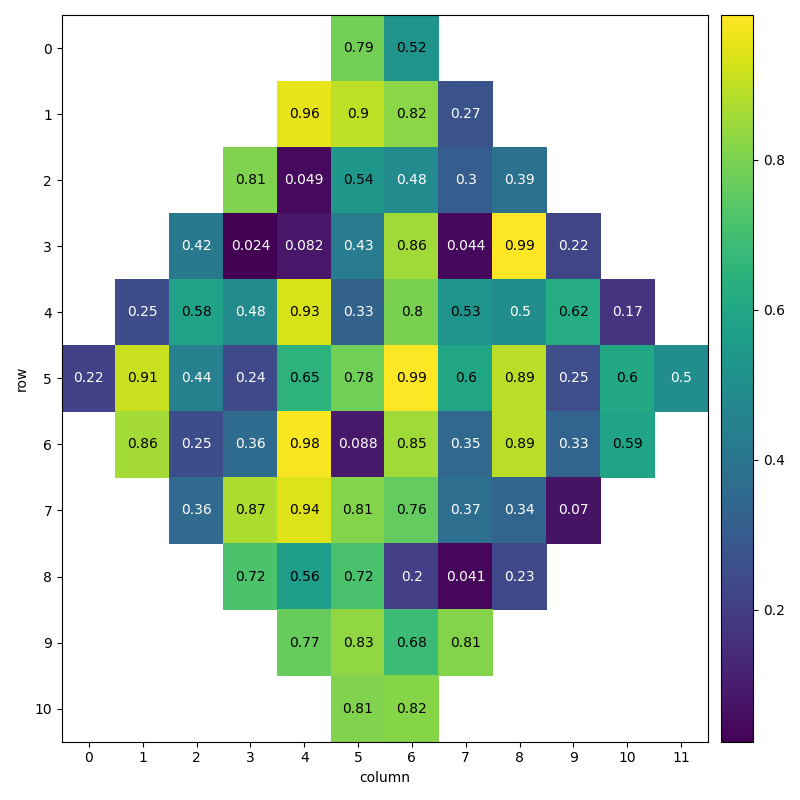
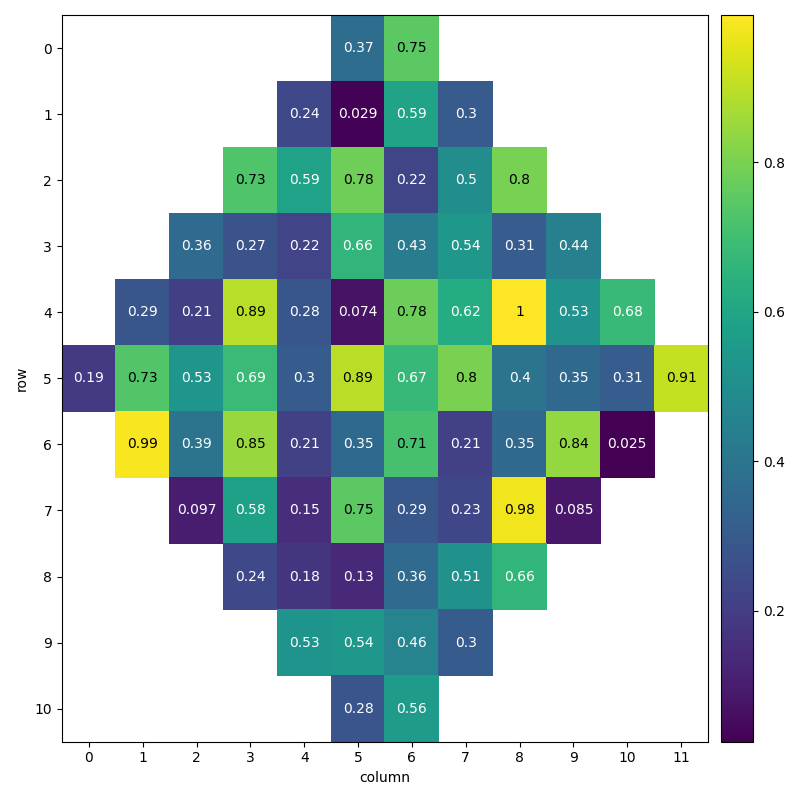
fixed somewhat the axes (still not perfect) and the facecolor mapping

diff --git a/cirq/vis/heatmap.py b/cirq/vis/heatmap.py
@@ -58,7 +58,7 @@ QubitPair = Union[
 ValueMap = Union[Dict[grid_qubit.GridQubit, SupportsFloat], Dict[TupleQubitCoord, SupportsFloat]]
 
 # The value map that maps a qubit pair to a type that supports float conversion.
-InterValueMap = Union[
+InteractionValueMap = Union[
     Dict[GridQubitPair, SupportsFloat],
     Dict[TupleQubitPair, SupportsFloat],
 ]
@@ -74,6 +74,7 @@ QubitCoordAnnotation = Mapping[QubitCoordinate, str]
 
 def relative_luminance(color: np.ndarray) -> float:
     """Returns the relative luminance according to W3C specification.
+
     Spec: https://www.w3.org/TR/WCAG21/#dfn-relative-luminance.
     Args:
         color: a numpy array with the first 3 elements red, green, and blue
@@ -250,22 +251,41 @@ class HeatmapBase(Generic[T, K, M], abc.ABC):
         colorbar_ax.tick_params(axis='y', direction='out')
         return colorbar
 
-    def _write_annotations(self, ax: plt.Axes) -> None:
+    def _write_annotations(
+        self, centers: List[Point], mesh: mpl_collections.Collection, ax: plt.Axes
+    ) -> None:
         """Writes annotations to the center of cells. Internal."""
-        for target in self.value_map.keys():
-            row, col = self._target_to_coordinate(target)
-            annotation = self.annot_map.get((row, col), '')
+        print(centers, len(mesh.get_paths()), len(mesh.get_facecolors()))
+        for center, path, facecolor in zip(centers, mesh.get_paths(), mesh.get_facecolors()):
+            # Calculate the center of the cell, assuming that it is a square
+            # centered at (x=col, y=row).
+            col, row = center
+            annotation = self.annot_map.get((row, col), 'none')
+            print(annotation, center, path, facecolor)
             if not annotation:
                 continue
-            medium_brightness = (
-                (self.vmax + self.vmin) / 2
-                if (self.vmax is not None and self.vmin is not None)
-                else 0.5
-            )
-            text_color = 'black' if self.value_map[target][0] > medium_brightness else 'white'
+            face_luminance = relative_luminance(facecolor)
+            text_color = 'black' if face_luminance > 0.4 else 'white'
             text_kwargs = dict(color=text_color, ha="center", va="center")
             text_kwargs.update(self.annot_kwargs)
             ax.text(col, row, annotation, **text_kwargs)
+        #
+        # vmax = max(self.value_map.values())
+        # vmin = min(self.value_map.values())
+        # medium_brightness = ((vmax[0] + vmin[0]) / 2)
+        #
+        # for target in self.value_map.keys():
+        #     row, col = self._target_to_coordinate(target)
+        #     annotation = self.annot_map.get((row, col), '')
+        #     if not annotation:
+        #         continue
+        #
+        #
+        #     text_color = 'black' if self.value_map[target][0] > medium_brightness else 'white'
+        #     print(target, self.value_map[target][0], text_color, annotation)
+        #     text_kwargs = dict(color=text_color, ha="center", va="center")
+        #     text_kwargs.update(self.annot_kwargs)
+        #     ax.text(col, row, annotation, **text_kwargs)
 
 
 class Heatmap(HeatmapBase['Heatmap', QubitCoordinate, ValueMap]):
@@ -340,7 +360,11 @@ class Heatmap(HeatmapBase['Heatmap', QubitCoordinate, ValueMap]):
             self._plot_colorbar(mesh, ax)
 
         if self.annot_map:
-            self._write_annotations(ax)
+            self._write_annotations(
+                [np.mean([np.array(v) for v in p.vertices[:4]], axis=0) for p in mesh.get_paths()],
+                mesh,
+                ax,
+            )
 
         if show_plot:
             fig.show()
@@ -349,11 +373,11 @@ class Heatmap(HeatmapBase['Heatmap', QubitCoordinate, ValueMap]):
 
 
 class TwoQubitInteractionHeatmap(
-    HeatmapBase['TwoQubitInteractionHeatmap', QubitPair, InterValueMap]
+    HeatmapBase['TwoQubitInteractionHeatmap', QubitPair, InteractionValueMap]
 ):
     """Visualizing interactions between neighboring qubits on a 2D grid."""
 
-    def __init__(self, value_map: InterValueMap, title: Optional[str] = None) -> None:
+    def __init__(self, value_map: InteractionValueMap, title: Optional[str] = None) -> None:
         super().__init__(value_map, title)
 
     def _target_to_coordinate(self, target: QubitPair) -> Tuple[float, float]:
@@ -402,39 +426,23 @@ class TwoQubitInteractionHeatmap(
             row, col = self._target_to_coordinate(qubit)
             value_table[col][row] = float_value
         # Construct the (height + 1) x (width + 1) cell boundary tables.
-        x_table = np.arange(min_col - 0.25, max_col + 0.75, 0.5)
-        y_table = np.arange(min_row - 0.25, max_row + 0.75, 0.5).transpose()
+        # x_table = np.arange(min_col - 0.25, max_col + 0.75, 0.5)
+        # y_table = np.arange(min_row - 0.25, max_row + 0.75, 0.5).transpose()
 
         # Construct the URL array as an ordered list of URLs for non-nan cells.
         url_array: List[str] = []
         if self.url_map:
             url_array = [self.url_map.get((row, col), '') for row, col in value_table.stack().index]
 
-        def get_qubit_map(vm):
-            # TODO: clean this up later
-            return {q: 0.0 for qubits in self.value_map.keys() for q in qubits}
-
-        hm = Heatmap(get_qubit_map(self.value_map))
+        hm = Heatmap({q: 0.0 for qubits in self.value_map.keys() for q in qubits})
         hm.set_colormap('binary')
         hm.unset_colorbar()
         hm.unset_annotation()
         hm.plot(
             ax=ax,
             linewidths=2,
-            edgecolor='darkgrey',
+            edgecolor='lightgrey',
             linestyle='dashed',
-        )
-
-        # Plot the heatmap.
-        mesh = ax.pcolor(
-            x_table,
-            y_table,
-            value_table,
-            vmin=self.vmin,
-            vmax=self.vmax,
-            cmap=self.colormap,
-            urls=url_array,
-            **pcolor_options,
         )
 
         coupler_list = _extract_pair_data(self.value_map, coupler_margin, coupler_width)
@@ -446,28 +454,30 @@ class TwoQubitInteractionHeatmap(
         # Make the heatmap for two-qubit metrics.
         collection = mcoll.PolyCollection([c.polygon for c in coupler_list], cmap=self.colormap)
         collection.set_clim(vmin, vmax)
-        collection.set_array(np.array([c.value[0] for c in coupler_list]))
+        collection.set_array(np.array([c.value for c in coupler_list]))
         ax.add_collection(collection)
+        collection.update_scalarmappable()  # Populate facecolors.
+        if self.annot_map:
+            self._write_annotations([c.center for c in coupler_list], collection, ax)
 
-        mesh.update_scalarmappable()
         ax.set(xlabel='column', ylabel='row')
-        ax.set_xticks(np.arange(min_col - 0.5, max_col + 1.5))
-        ax.set_yticks(np.arange(min_row - 0.5, max_row + 1.5))
-        ax.grid(b=True, which='minor', linestyle='--')
-        ax.set_xlim((min_col - 1, max_col + 0.5))
-        ax.set_ylim((max_row + 0.5, min_row - 0.5))
+        min_xtick = np.floor(min_col)
+        max_xtick = np.floor(max_col)
+        ax.set_xticks(np.arange(min_xtick, max_xtick + 1))
+        min_ytick = np.floor(min_row)
+        max_ytick = np.floor(max_row)
+        ax.set_yticks(np.arange(min_ytick, max_ytick + 1))
+        ax.set_xlim((min_xtick - 0.6, max_xtick + 1.6))
+        ax.set_ylim((max_ytick + 1.6, min_ytick - 0.6))
         plt.title(self.title)
 
-        # if self.plot_colorbar:
-        #     self._plot_colorbar(mesh, ax)
-
-        if self.annot_map:
-            self._write_annotations(ax)
+        if self.plot_colorbar:
+            self._plot_colorbar(collection, ax)
 
         if show_plot:
             fig.show()
 
-        return ax, None, value_table
+        return ax, collection, value_table
 
 
 class Coupler(NamedTuple('Coupler', [('polygon', Polygon), ('center', Point), ('value', Any)])):
@@ -505,21 +515,6 @@ def _extract_pair_data(
         - A list of Coupler objects for plotting the qubit-pair couplers.
         - A tuple of (minimum column, minimum row, maximum column, maximum row).
     """
-    qubits = {q for qubits in pair_value_map.keys() for q in qubits}
-
-    # A hack to make the qubit-pair values align with qubits when qubits don't
-    # start from row 0 or column 0. It should be better to do this with
-    # matplotlib's transformations, but a hack will do for now.
-    indices = [_get_qubit_row_col(q) for q in qubits]
-    min_row = min(row for row, _ in indices)
-    min_col = min(col for _, col in indices)
-    max_row = max(row for row, _ in indices)
-    max_col = max(col for _, col in indices)
-    extremes = (min_col, min_row, max_col, max_row)
-
-    def _offset(x: float, y: float) -> Tuple[float, float]:
-        return x, y  # x + 0.5 - min_col, y + 0.5 - min_row
-
     coupler_list: List[Coupler] = []
     cwidth = coupler_width / 2.0
     setback = 0.5 - cwidth
@@ -557,9 +552,9 @@ def _extract_pair_data(
             ]
         coupler_list.append(
             Coupler(
-                polygon=[_offset(c, r) for c, r in polygon],
-                center=_offset((col1 + col2) / 2.0, (row1 + row2) / 2.0),
-                value=value,
+                polygon=[(c, r) for c, r in polygon],
+                center=((col1 + col2) / 2.0, (row1 + row2) / 2.0),
+                value=value[0],
             )
         )
 

diff --git a/examples/heatmap_example.py b/examples/heatmap_example.py
@@ -39,44 +39,46 @@ def two_qubit_interaction_heatmap():
 
     Demonstrates how cirq.Heatmap can be used to generate a heatmap of the qubit fidelities.
     """
+    predef = True
     # normally one would get these from cirq.google.engine
     s = np.random.RandomState(1234)
     random_characterization_data = {qubit_pair: s.random() for qubit_pair in _sycamore_edges()}
 
-    # random_characterization_data = {
-    #     (cirq.GridQubit(3, 2), cirq.GridQubit(4, 2)): 0.004619111460557768,
-    #     (cirq.GridQubit(4, 1), cirq.GridQubit(4, 2)): 0.0076079162393482835,
-    #     (cirq.GridQubit(4, 1), cirq.GridQubit(5, 1)): 0.010323903068646778,
-    #     (cirq.GridQubit(4, 2), cirq.GridQubit(4, 3)): 0.00729037246947839,
-    #     (cirq.GridQubit(4, 2), cirq.GridQubit(5, 2)): 0.008226663382640803,
-    #     (cirq.GridQubit(4, 3), cirq.GridQubit(5, 3)): 0.01504682356081491,
-    #     (cirq.GridQubit(5, 0), cirq.GridQubit(5, 1)): 0.00673880216745637,
-    #     (cirq.GridQubit(5, 1), cirq.GridQubit(5, 2)): 0.01020380985719993,
-    #     (cirq.GridQubit(5, 1), cirq.GridQubit(6, 1)): 0.005713058677283056,
-    #     (cirq.GridQubit(5, 2), cirq.GridQubit(5, 3)): 0.006431698844451689,
-    #     (cirq.GridQubit(5, 2), cirq.GridQubit(6, 2)): 0.004676551878404933,
-    #     (cirq.GridQubit(5, 3), cirq.GridQubit(5, 4)): 0.009471810549265769,
-    #     (cirq.GridQubit(5, 3), cirq.GridQubit(6, 3)): 0.003834724159559072,
-    #     (cirq.GridQubit(5, 4), cirq.GridQubit(6, 4)): 0.010423354216218345,
-    #     (cirq.GridQubit(6, 1), cirq.GridQubit(6, 2)): 0.0062515002303844824,
-    #     (cirq.GridQubit(6, 2), cirq.GridQubit(6, 3)): 0.005419247075412775,
-    #     (cirq.GridQubit(6, 2), cirq.GridQubit(7, 2)): 0.02236774155039517,
-    #     (cirq.GridQubit(6, 3), cirq.GridQubit(6, 4)): 0.006116965562115412,
-    #     (cirq.GridQubit(6, 3), cirq.GridQubit(7, 3)): 0.005300336755683754,
-    #     (cirq.GridQubit(6, 4), cirq.GridQubit(6, 5)): 0.012849356290539266,
-    #     (cirq.GridQubit(6, 4), cirq.GridQubit(7, 4)): 0.007785990142364307,
-    #     (cirq.GridQubit(6, 5), cirq.GridQubit(7, 5)): 0.008790971346696541,
-    #     (cirq.GridQubit(7, 2), cirq.GridQubit(7, 3)): 0.004104719338404117,
-    #     (cirq.GridQubit(7, 3), cirq.GridQubit(7, 4)): 0.009236765681133435,
-    #     (cirq.GridQubit(7, 3), cirq.GridQubit(8, 3)): 0.024921853294157192,
-    #     (cirq.GridQubit(7, 4), cirq.GridQubit(7, 5)): 0.0059072812181635015,
-    #     (cirq.GridQubit(7, 4), cirq.GridQubit(8, 4)): 0.004990546867455203,
-    #     (cirq.GridQubit(7, 5), cirq.GridQubit(7, 6)): 0.007852170748540305,
-    #     (cirq.GridQubit(7, 5), cirq.GridQubit(8, 5)): 0.006424831182351348,
-    #     (cirq.GridQubit(8, 3), cirq.GridQubit(8, 4)): 0.005248674988741292,
-    #     (cirq.GridQubit(8, 4), cirq.GridQubit(8, 5)): 0.014301577907262525,
-    #     (cirq.GridQubit(8, 4), cirq.GridQubit(9, 4)): 0.0038720100369923904,
-    # }
+    if predef:
+        random_characterization_data = {
+            (cirq.GridQubit(3, 2), cirq.GridQubit(4, 2)): 0.004619111460557768,
+            (cirq.GridQubit(4, 1), cirq.GridQubit(4, 2)): 0.0076079162393482835,
+            (cirq.GridQubit(4, 1), cirq.GridQubit(5, 1)): 0.010323903068646778,
+            (cirq.GridQubit(4, 2), cirq.GridQubit(4, 3)): 0.00729037246947839,
+            (cirq.GridQubit(4, 2), cirq.GridQubit(5, 2)): 0.008226663382640803,
+            (cirq.GridQubit(4, 3), cirq.GridQubit(5, 3)): 0.01504682356081491,
+            (cirq.GridQubit(5, 0), cirq.GridQubit(5, 1)): 0.00673880216745637,
+            (cirq.GridQubit(5, 1), cirq.GridQubit(5, 2)): 0.01020380985719993,
+            (cirq.GridQubit(5, 1), cirq.GridQubit(6, 1)): 0.005713058677283056,
+            (cirq.GridQubit(5, 2), cirq.GridQubit(5, 3)): 0.006431698844451689,
+            (cirq.GridQubit(5, 2), cirq.GridQubit(6, 2)): 0.004676551878404933,
+            (cirq.GridQubit(5, 3), cirq.GridQubit(5, 4)): 0.009471810549265769,
+            (cirq.GridQubit(5, 3), cirq.GridQubit(6, 3)): 0.003834724159559072,
+            (cirq.GridQubit(5, 4), cirq.GridQubit(6, 4)): 0.010423354216218345,
+            (cirq.GridQubit(6, 1), cirq.GridQubit(6, 2)): 0.0062515002303844824,
+            (cirq.GridQubit(6, 2), cirq.GridQubit(6, 3)): 0.005419247075412775,
+            (cirq.GridQubit(6, 2), cirq.GridQubit(7, 2)): 0.02236774155039517,
+            (cirq.GridQubit(6, 3), cirq.GridQubit(6, 4)): 0.006116965562115412,
+            (cirq.GridQubit(6, 3), cirq.GridQubit(7, 3)): 0.005300336755683754,
+            (cirq.GridQubit(6, 4), cirq.GridQubit(6, 5)): 0.012849356290539266,
+            (cirq.GridQubit(6, 4), cirq.GridQubit(7, 4)): 0.007785990142364307,
+            (cirq.GridQubit(6, 5), cirq.GridQubit(7, 5)): 0.008790971346696541,
+            (cirq.GridQubit(7, 2), cirq.GridQubit(7, 3)): 0.004104719338404117,
+            (cirq.GridQubit(7, 3), cirq.GridQubit(7, 4)): 0.009236765681133435,
+            (cirq.GridQubit(7, 3), cirq.GridQubit(8, 3)): 0.024921853294157192,
+            (cirq.GridQubit(7, 4), cirq.GridQubit(7, 5)): 0.0059072812181635015,
+            (cirq.GridQubit(7, 4), cirq.GridQubit(8, 4)): 0.004990546867455203,
+            (cirq.GridQubit(7, 5), cirq.GridQubit(7, 6)): 0.007852170748540305,
+            (cirq.GridQubit(7, 5), cirq.GridQubit(8, 5)): 0.006424831182351348,
+            (cirq.GridQubit(8, 3), cirq.GridQubit(8, 4)): 0.005248674988741292,
+            (cirq.GridQubit(8, 4), cirq.GridQubit(8, 5)): 0.014301577907262525,
+            (cirq.GridQubit(8, 4), cirq.GridQubit(9, 4)): 0.0038720100369923904,
+        }
     heatmap = cirq.TwoQubitInteractionHeatmap(
         value_map=random_characterization_data,
         title='Two Qubit Sycamore Gate XEB Cycle Total Error',
